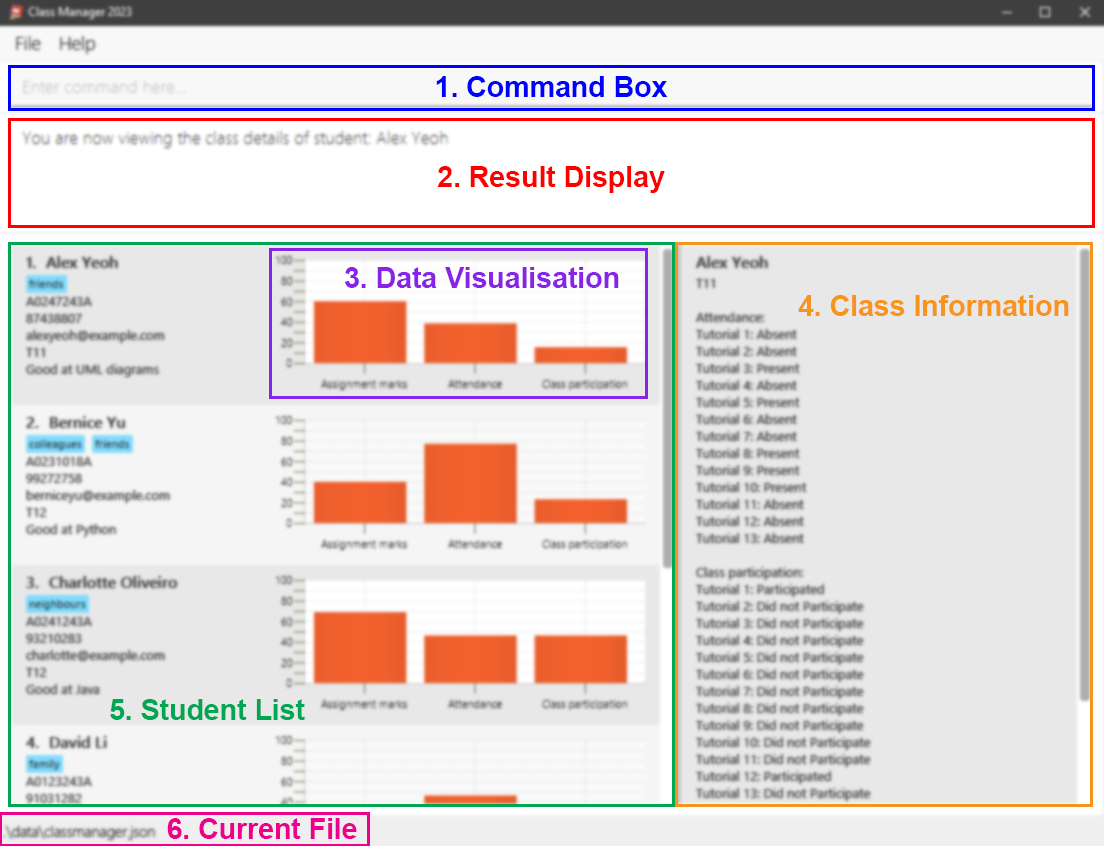
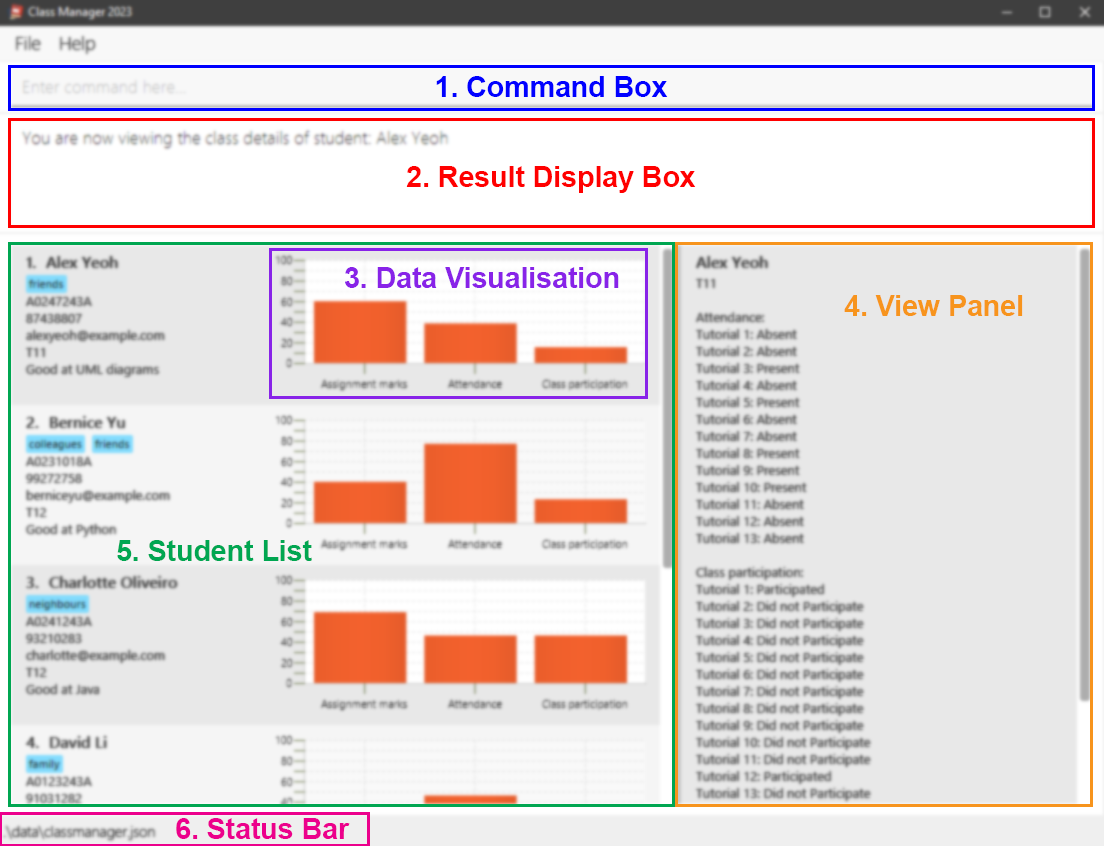
Edit implementation details in DG
Edited load, config and undo/redo implementation details in DG.
Refactored undo/redo UML diagrams.

diff --git a/src/main/java/seedu/classmanager/logic/parser/ConfigCommandParser.java b/src/main/java/seedu/classmanager/logic/parser/ConfigCommandParser.java
@@ -13,9 +13,9 @@ import seedu.classmanager.logic.parser.exceptions.ParseException;
  * Parses input arguments and creates a new ConfigCommand object
  */
 public class ConfigCommandParser implements Parser<ConfigCommand> {
-    public static final String MESSAGE_INVALID_COUNT_VALUE_TOO_SMALL = "Invalid count values!"
+    public static final String MESSAGE_INVALID_COUNT_VALUE_TOO_SMALL = "Invalid count values! "
             + "The count value of %1$s cannot be less than 1.";
-    public static final String MESSAGE_INVALID_COUNT_VALUE_TOO_LARGE = "Invalid count values!"
+    public static final String MESSAGE_INVALID_COUNT_VALUE_TOO_LARGE = "Invalid count values! "
             + "The count value of %1$s cannot be more than 40.";
     public static final String MESSAGE_INVALID_CONFIG_COMMAND_FORMAT = "Invalid count values! Please input an "
             + "integer between 1 to 40 inclusive for both tutorial count and assignment count."

diff --git a/src/main/java/seedu/classmanager/model/student/ClassDetails.java b/src/main/java/seedu/classmanager/model/student/ClassDetails.java
@@ -19,7 +19,7 @@ import seedu.classmanager.storage.JsonAdaptedClassDetails;
  */
 public class ClassDetails {
 
-    public static final String MESSAGE_CONSTRAINTS = "Class Number should begin with a capital 'T' "
+    public static final String MESSAGE_CONSTRAINTS = "Class Number must begin with a capital 'T', "
             + "followed by any number of characters, such as 'T11' or 'TG12'. It must also not be blank.";
     public static final String MESSAGE_INVALID_GRADE = "Grade should be an integer between 0 and 100.";
     public static final String MESSAGE_INVALID_ASSIGNMENT_NUMBER = "Assignment index should be an integer "

diff --git a/src/main/java/seedu/classmanager/logic/commands/CommentCommand.java b/src/main/java/seedu/classmanager/logic/commands/CommentCommand.java
@@ -26,7 +26,7 @@ public class CommentCommand extends Command {
             + "Parameters: " + PREFIX_STUDENT_NUMBER + "STUDENT_NUMBER (must be an existing student number) "
             + PREFIX_COMMENT + "COMMENT\n"
             + "Example: " + COMMAND_WORD + " " + PREFIX_STUDENT_NUMBER + "A1234567M" + " "
-            + PREFIX_COMMENT + " Struggling with tutorials.";
+            + PREFIX_COMMENT + "Struggling with tutorials.";
 
     public static final String MESSAGE_COMMENT_SUCCESS = "Comment added successfully.";
 

diff --git a/src/main/java/seedu/classmanager/model/student/StudentNumber.java b/src/main/java/seedu/classmanager/model/student/StudentNumber.java
@@ -9,7 +9,7 @@ import static seedu.classmanager.commons.util.AppUtil.checkArgument;
  */
 public class StudentNumber {
 
-    public static final String MESSAGE_CONSTRAINTS = "Student Number can take any value starting with capital 'A',"
+    public static final String MESSAGE_CONSTRAINTS = "Student Number can take any value starting with capital 'A', "
             + "followed by numbers, and ending with a single alphabet.";
     /*
      * The first character of the student number needs to be "A".

diff --git a/src/main/java/seedu/classmanager/logic/commands/ConfigCommand.java b/src/main/java/seedu/classmanager/logic/commands/ConfigCommand.java
@@ -73,7 +73,7 @@ public class ConfigCommand extends Command {
             model.setStudent(student, editedStudent);
         }
 
-        // clears the view panel after resetting class details of students
+        // Clears the view panel after resetting class details of students
         model.resetSelectedStudent();
         model.commitClassManager();
         // Reset the history of the model and prevent any undo commands

diff --git a/docs/DeveloperGuide.md b/docs/DeveloperGuide.md
@@ -14,6 +14,7 @@
 ## **Acknowledgements**
 
 - The features `undo`, `redo`, `history` and arrow key command navigation (including the code) was reused with some changes from AddressBook-Level4.
+- Our book icon favicon was taken from [Smashicons from Flaticon](https://www.flaticon.com/free-icons/book).
 
 --------------------------------------------------------------------------------------------------------------------
 
@@ -162,15 +163,11 @@ Only 1 of the 3 commands will be executed per user input.
 
 Here is an example step by step of how the 3 different commands might be executed.
 
-Step 1. User inputs
-
-        tag A0245234N t/teamleader
+Step 1. User inputs `tag s/A0245234N t/teamleader`
 
 Step 2. `Logic` will receive the input and pass it to a `ClassManagerParser` object which in turn creates a `TagCommandParser` object to parse the command.
 
-Step 3. Next `TagCommandParser` will check for any action identifiers,
-`/add` or `/delete`, which will create a `AddTagCommand` object or `DeleteTagCommand` object respectively,
-else a `TagCommand` object.
+Step 3. Next `TagCommandParser` will check for any action identifiers, `/add` or `/delete`, which will create a `AddTagCommand` object or `DeleteTagCommand` object respectively,  else a `TagCommand` object.
 
 Step 4a. `AddTagCommand` will union the `HashSet<Tag>` with the student's existing `Tag`.
 
@@ -187,10 +184,13 @@ The following activity diagram summarizes what happens when a user executes a ta
 <puml src="diagrams/TagCommand.puml" alt="TagCommand" />
 
 #### Design considerations:
+
 **Aspect: TagCommand**
+
 * **Alternative 1 (current choice):** Use different types of TagCommand to handle add and delete tags.
   * Pros: Able to handle add and delete of tags. Users do not have to retype tags that they want to keep.
   * Cons: Users have to input more details.
+  
 * **Alternative 2:** Replace all existing tags with input tags.
   * Pros: Easy to implement.
   * Cons: Users have to always replace the tag even if they want to keep it.
@@ -199,7 +199,7 @@ The following activity diagram summarizes what happens when a user executes a ta
 
 #### Implementation
 
-The undo/redo feature works similarly to the one implemented in AddressBook-Level 4, but with support for more commands. The undo/redo mechanism is facilitated by `VersionedClassManager`. It extends `ClassManager` with an undo/redo history, stored internally as an `classManagerStateList` and `currentStatePointer`. Additionally, it implements the following operations:
+The undo/redo feature works similarly to the one implemented in AddressBook-Level 4, but with support for more commands and a limit to the number of Class Manager states stored. The undo/redo mechanism is facilitated by `VersionedClassManager`. It extends `ClassManager` with an undo/redo history, stored internally as an `classManagerStateList` and `currentStatePointer`. `classManagerStateList` only stores up to 10 most recent states of Class Manager to avoid performance issues when a large number of commands are executed. Additionally, it implements the following operations:
 
 * `VersionedClassManager#commit()` — Saves the current Class Manager state in its history.
 * `VersionedClassManager#undo()` — Restores the previous Class Manager state from its history.
@@ -265,6 +265,8 @@ Step 6. The user executes `clear`, which calls `Model#commitClassManager()`. Sin
 
 <puml src="diagrams/UndoRedoState5.puml" alt="UndoRedoState5" />
 
+In order to implement `undo` and `redo` in Class Manager, `load` and `config` commands are not supported by `undo` and `redo`. This is because undoing `load` and `config` can cause Class Manager to be in an inconsistent state. To prevent this, `load` and `config` commands calls `Model#loadReset()` and `Model#configReset()` respectively. These methods essentially clear `classManagerStateList` and reset the `currentStatePointer` to the current Class Manager state, allowing 9 more states of Class Manager to be stored after `load` and `config` commands.
+
 The following activity diagram summarizes what happens when a user executes a new command:
 
 <puml src="diagrams/CommitActivityDiagram.puml" width="250" />
@@ -295,17 +297,26 @@ The following activity diagram summarizes what happens when a user executes a ne
 **Aspect: Commands that support undo & redo**
 
 * **Alternative 1 (current choice):** Not supporting undo/redo for `load` and `config`
-  * Pros: Ensures that Class Manager will not run into issues when undoing `load` for missing saved files. Enforces the immutability of tutorial and assignment count after `config` has been entered.
-  * Cons: Unable to change tutorial and assignment count after `config` has been entered.
+  * Pros: Ensures that Class Manager will not run into issues such as inconsistent states when undoing `load` for missing saved files.
+  * Cons: Unable to restore student's class information after `config` command resets student class information.
 * **Alternative 2:** Supporting undo/redo for all commands.
   * Pros: Ensures that app is consistent with undo/redo and users will not be unsure if a certain command can be undone.
-  * Cons: Can be confusing for the user to use undo/redo with `load`.
+  * Cons: Can be confusing for the user to use undo/redo with `load` and `config`.
+
+**Aspect: Number of Class Manager states to store**
+
+* **Alternative 1 (current choice):** Store up to 10 Class Manager states.
+  * Pros: Ensures that app will not run into performance issues when a large number of commands are executed.
+  * Cons: Unable to undo/redo more than 10 commands.
+* **Alternative 2:** Store all Class Manager states.
+  * Pros: Able to undo/redo more than 10 commands and restore any state of Class Manager in the current session.
+  * Cons: Will have performance issues when a large number of commands are executed.
 
 ### Load feature
 
 #### About this feature
 
-The load feature allows users to load a saved JSON file into the app. Load allows data from the new JSON file to be displayed in Class Manager, while setting the new default save file to be the new JSON file. The status bar footer also updates to show the current file.
+The load feature allows users to load a saved JSON file into the app. Load allows data from the new JSON file to be displayed in Class Manager, while setting the new default save file to be the new JSON file. The status bar footer also updates to show the current file path.
 
 This feature is an improvement to the previous method of directly editing the `classmanager.json` file located in `[JAR file location]/data`. Users are now able to have multiple JSON files in `[JAR file location]/data` and choose which file is to be loaded into Class Manager. This allows TAs with multiple courses to have a JSON file for each course, and load the JSON file for the course they are currently teaching.
 
@@ -313,7 +324,7 @@ This feature is an improvement to the previous method of directly editing the `c
 
 <puml src="diagrams/LoadSequenceDiagram.puml" alt="LoadSequenceDiagram" />
 
-The `load` command is facilitated by `LoadCommand` and `LoadCommandParser`. `LoadCommand` attempts to read the JSON file and calls `setClassManager` and `setClassManagerFilePath` of `Model` to update the new save file path and Class Manager data to be displayed.
+The `load` command is facilitated by `LoadCommand` and `LoadCommandParser`. `LoadCommand` attempts to read the JSON file and checks if the tutorial and assignment count for each student matches the current configuration of Class Manager. If the file is valid, it then calls `setClassManager` and `setClassManagerFilePath` of `Model` to update the new save file path and Class Manager data to be displayed. `LoadCommand` then resets `VersionedClassManager` to clear the undo/redo history of Class Manager.
 
 #### Parsing user input
 
@@ -323,9 +334,51 @@ The `load` command is facilitated by `LoadCommand` and `LoadCommandParser`. `Loa
 4. The file name is then check to ensure that it is valid. If the file name is missing, null or contains a forward slash, a ParseException would be thrown.
 5. The `LoadCommandParser` then creates the `LoadCommand` based on the processed input.
 
+#### Design considerations:
+
+**Aspect: Files that can be loaded:**
+
+* **Alternative 1 (current choice):** Only JSON files can be loaded.
+  * Pros: Easy to implement.
+  * Cons: Users may want to load other types of files.
+* **Alternative 2:** Allow users to load any type of file.
+  * Pros: Users can use files of other formats that may be generated from other applications.
+  * Cons: A lot of effort to ensure that the data of each file type is valid.
+
 ### Config feature
 
-The config feature is mandatory for TAs to enter before using Class Manager. It allows TAs to set the number of tutorials and the number of assignments in a module. This allows Class Manager to be able to display the correct number of tutorials and assignments for the TA to enter the grades for each student.
+The `config` command allows TAs to set the number of tutorials and the number of assignments in a module. This allows Class Manager to be able to display the correct number of tutorials and assignments for the TA to enter the grades for each student. This also provides more flexibility to TAs as their class may differ from the default configuration of 13 tutorials and 6 assignments.
+
+#### How it is implemented
+
+<puml src="diagrams/ConfigSequenceDiagram.puml" alt="ConfigSequenceDiagram" />
+
+The `config` command is facilitated by `ConfigCommand` and `ConfigCommandParser`. `ConfigCommand` updates the tutorial and assignment count of Class Manager by calling `setTutorialCount` and `setAssignmentCount` of `Model` to update the `preferences.json` file, while simultaneously updating the static tutorial and assignment count of `ClassDetails` to accurately recreate the `ClassDetails` objects for students. All students in the current file will have their class information updated to correctly reflect the new configuration. `ConfigCommand` then resets the student shown in the view panel, as well as `VersionedClassManager` to clear the undo/redo history of Class Manager.
+
+#### Parsing user input
+
+1. The user inputs the `config` command.
+2. The `ClassManagerParser` processes the input and creates a new `ConfigCommandParser`.
+3. The `ConfigCommandParser` then calls ArgumentTokenizer#tokenize(String argString, Prefix... prefixes) to extract the tutorial count and assignment count. If there are duplicate prefixes, a ParseException would be thrown.
+4. The tutorial and assignment counts are then check to ensure that they are integers between 1 and 40 inclusive. If any of the counts are not valid, a ParseException would be thrown.
+5. The `ConfigCommandParser` then creates the `ConfigCommand` based on the processed input.
+
+#### Design considerations:
+
+Initially in v1.3, `config` was implemented as a command that users could only execute once before they started using Class Manager. This allows `ClassDetails` to create fixed length arrays for `AssignmentTracker`, `AttendanceTracker` and `ClassParticipationTracker`. 
+
+However, this implementation was changed in v1.4 to allow users to execute `config` multiple times. This allows users to reconfigure Class Manager if they have entered the wrong information previously. We decided to reset the class information of a student back to the default values of 0 for attendance, class participation and assignment grades, as it ensures a consistent implementation of `config` regardless of whether the new tutorial count and assignment count was smaller or larger than the previous configuration.
+
+In addition, the tutorial and assignment count was limited to an integer between 1 and 40 inclusive in v1.4. This prevents division by zero bugs encountered in data visualisation, as well as Class Manager being unresponsive when the user enters a large number of tutorials and assignments.
+
+**Aspect: Number of times Class Manager can be configured:**
+
+* **Alternative 1 (current choice):** Class Manager can be configured multiple times.
+  * Pros: Provides more flexibility to TAs as they may enter the wrong information when configuring.
+  * Cons: Student class information is completely reset upon configuration, which may be an issue for the user.
+* **Alternative 2:** Class Manager can only be configured once.
+  * Pros: Ensures that Class Manager will not run into issues with data visualisation.
+  * Cons: Unable to change the tutorial and assignment count of Class Manager after it has been configured.
 
 
 ### Class Details feature
@@ -653,22 +706,21 @@ Priorities: High (must have) - `* * *`, Medium (nice to have) - `* *`, Low (unli
 1.  Should work on any _mainstream OS_ as long as it has Java `11` or above installed.
 2.  Should be able to hold up to 1000 students without a noticeable sluggishness in performance for typical usage.
 3.  A user with above average typing speed for regular English text (i.e. not code, not system admin commands) should be able to accomplish most of the tasks faster using commands than using the mouse.
-4.  The Application should be secure (with password) as sensitive information is stored.
-5.  The Application needs to have proper documentation and user guide so that users can understand how to use the application.
-6.  The Application should allow users to create and customize their profiles, including preferences for shortcuts, views, and layouts, to enhance the user experience.
-7.  The Application should be able to handle multiple windows at the same time.
-8.  The Application should comply with the specific policies and regulations of the university regarding data storage, security, and access control.
+4.  The Application needs to have proper documentation and user guide so that users can understand how to use the application.
+5.  The Application should allow users to create and customize their profiles, including preferences for shortcuts, views, and layouts, to enhance the user experience.
+6.  The Application should be able to handle multiple windows at the same time.
+7.  The Application should comply with the specific policies and regulations of the university regarding data storage, security, and access control.
 
 ### Glossary
 
 * **Mainstream OS**: Windows, Linux, Unix, OS-X
-* **Student Number**: Matriculation number of NUS student. It must begin with capital letter 'A', followed by any number of alphanumeric characters. It must not be blank.
-* **Email**: Any valid email address, such as NUS email address (eXXXXXXX@u.nus.edu).
+* **Student Number**: Unique matriculation number of a NUS student. In Class Manager, it must begin with the capital letter 'A', followed by 1 or more consecutive digits, and end with a single alphabetical character. Student Number must not be blank as well.
+* **Email**: Any valid electronic mail address, such as NUS email address (eXXXXXXX@u.nus.edu).
 * **CLI**: Command Line Interface.
 * **GUI**: Graphical User Interface.
 * **JSON**: JavaScript Object Notation, a lightweight data-interchange format.
 * **JAR**: Java Archive, a package file format typically used to aggregate many Java class files and associated metadata and resources (text, images, etc.) into one file to distribute application software or libraries on the Java platform.
-* **Class details / Class information**: The grades, attendance and class participation details of a student in Class Manager.
+* **Class information**: The grades, attendance and class participation details of a student in Class Manager.
 
 --------------------------------------------------------------------------------------------------------------------
 
@@ -865,7 +917,7 @@ testers are expected to do more *exploratory* testing.
 1. Listing all students in Class Manager.
 
    1. Test case: `list`<br>
-      Expected: The list of students is shown in the result display box.
+      Expected: The list of students is shown in the student list.
       <br><br>
 
 ### Display help
@@ -873,7 +925,7 @@ testers are expected to do more *exploratory* testing.
 1. Displaying help.
 
    1. Test case: `help`<br>
-      Expected: The help window with list of command is shown.
+      Expected: The help window with list of commands is shown.
       <br><br>
 
 ### Exiting the app
@@ -889,5 +941,5 @@ testers are expected to do more *exploratory* testing.
 ## **Appendix: Planned Enhancements**
 
 1. The current keywords are case-sensitive. We plan to make keywords not case-sensitive in the future iteration. For example, currently `add` is case-sensitive. We will accept keywords such as `Add` in the future.
-2. Class Numbers are currently limited to tutorials that begin with T. We plan to allow Class Numbers to be any alphanumeric string in the future.
-3. Clicking on a student in the student list will highlight the student. We plan to prevent this in the future as it affects the visibility of the student's contact details and visualised graphs.
+2. Class Numbers are currently limited to tutorials that begin with T. We plan to allow Class Numbers to be any sensible alphanumeric string, such as `R15` and `SG06`.
+3. Clicking on a student in the student list currently highlights the student's card. We plan to disable this interaction as it affects the visibility of the student's contact details and visualised graphs.

diff --git a/docs/UserGuide.md b/docs/UserGuide.md
@@ -73,11 +73,11 @@ The blurred image below shows an annotated overview of **Class Manager 2023's** 
 The **GUI** has 6 notable sections:
 
 1. **Command Box** - This is where you can type in commands to execute.
-2. **Result Display** - This is where the results of the commands and any errors will be displayed.
+2. **Result Display Box** - This is where the results of the commands and any errors will be displayed.
 3. **Data Visualisation** - This is where the average grades, attendance and class participation percentages of a student will be displayed.
-4. **Class Information** - This is where the class information of the selected student, such as attendance, class participation and assignment grades, will be displayed.
-5. **Student List** - This is where the list of students will be displayed.
-6. **Current File** - This is where the current file path of the loaded data file will be displayed.
+4. **View Panel** - This is where the class information of the selected student, such as attendance, class participation and assignment grades, will be displayed.
+5. **Student List** - This is where the current list of students will be displayed in card form.
+6. **Status Bar** - This is where the current file path of the loaded data file will be displayed.
 
 --------------------------------------------------------------------------------------------------------------------
 
@@ -236,19 +236,21 @@ Format: `load f/FILE_NAME`
 Example:
 * `load f/sample` loads `sample.json` file in the `/data` folder.
 
-Before `load` is executed:
+Before `load f/sample` is executed:
 
 <img alt="load before" src="images/theme-light.png" width="700"> <br><br>
 
-After `load` is executed successfully:
+After `load f/sample` is executed successfully:
 
 <img alt="load success" src="images/load-outcome.png" width="750"> <br><br>
 
-Possible errors:
-* If file does not exist in the `/data` folder
-  * The file `FILE_NAME.json` cannot be found. Please make sure the file is in the /data folder.
+The file path at the bottom left of the application is be updated to `.\data\sample.json`.
+
+Possible errors and their corresponding error messages:
+* If `sample.json` does not exist in the `/data` folder
+  * Error message: The file `sample.json` cannot be found. Please make sure the file is in the /data folder.
 * The file name entered is not a valid JSON file, or the tutorial and assignment count does not match the current configuration of **Class Manager 2023**
-  * The file `FILE_NAME.json` cannot be loaded. Please make sure the file is formatted correctly.
+  * Error message: The file `sample.json` cannot be loaded. Please make sure the file is formatted correctly.
 
 ---
 
@@ -266,36 +268,9 @@ Example:
 
 ---
 
-### Redo a command : `redo`
-
-Redo a previously undone command that modified the state of **Class Manager 2023**. Redo only works with commands that can be undone. **Class Manager 2023** only stores up to 10 modified states, which resets after a `load` or `config` command. Redo can be used multiple times to redo multiple undo commands, or until **Class Manager 2023** reaches its most recent state after a maximum of 9 redos.
-
-Format: `redo`
-
-Here is the list of commands that can be redone after they are undone (same list as undo):
-* `add`
-* `class-part`
-* `clear`
-* `comment`
-* `delete`
-* `edit`
-* `grade`
-* `present`
-* `absent`
-* `present-all`
-* `absent-all`
-* `tag`
-* `view`
-
-Displayed result if redo is successful: `Redo success!`
-
-Displayed result if there are no more commands to redo: `No more commands to redo!`
-
----
-
 ### Undo a command : `undo`
 
-Undo the previous command that modified the state of **Class Manager 2023**. Undo only works with commands that changes **Class Manager 2023**, and does not work with commands such as `load` and `config`. **Class Manager 2023** only stores up to 10 modified states, which resets after a `load` or `config` command. Undo can be used multiple times to undo multiple commands, or until **Class Manager 2023** reaches its last stored state after a maximum of 9 undos.
+Undo the previous command that modified the state of **Class Manager 2023**. Undo only works with the commands mentioned below that modifies the state of **Class Manager 2023**, and does not work with commands such as `load` and `config`. **Class Manager 2023** only stores up to 10 modified states, which **resets** after a `load` or `config` command. Undo can be used multiple times to undo multiple commands, or until **Class Manager 2023** reaches its last stored state after a maximum of 9 undos.
 
 Format: `undo`
 
@@ -317,6 +292,33 @@ Here is the list of commands that can be undone/redone:
 Displayed result if undo is successful: `Undo success!`
 
 Displayed result if there are no more commands to undo: `No more commands to undo!`
+
+---
+
+### Redo a command : `redo`
+
+Redo a previously undone command that modified the state of **Class Manager 2023**. Redo only works with commands that can be undone. **Class Manager 2023** only stores up to 10 modified states, which **resets** after a `load` or `config` command. Redo can be used multiple times to redo multiple undo commands, or until **Class Manager 2023** reaches its most recent state after a maximum of 9 redos.
+
+Format: `redo`
+
+Here is the list of commands that can be redone after they are undone (same list as undo):
+* `add`
+* `class-part`
+* `clear`
+* `comment`
+* `delete`
+* `edit`
+* `grade`
+* `present`
+* `absent`
+* `present-all`
+* `absent-all`
+* `tag`
+* `view`
+
+Displayed result if redo is successful: `Redo success!`
+
+Displayed result if there are no more commands to redo: `No more commands to redo!`
 
 ---
 
